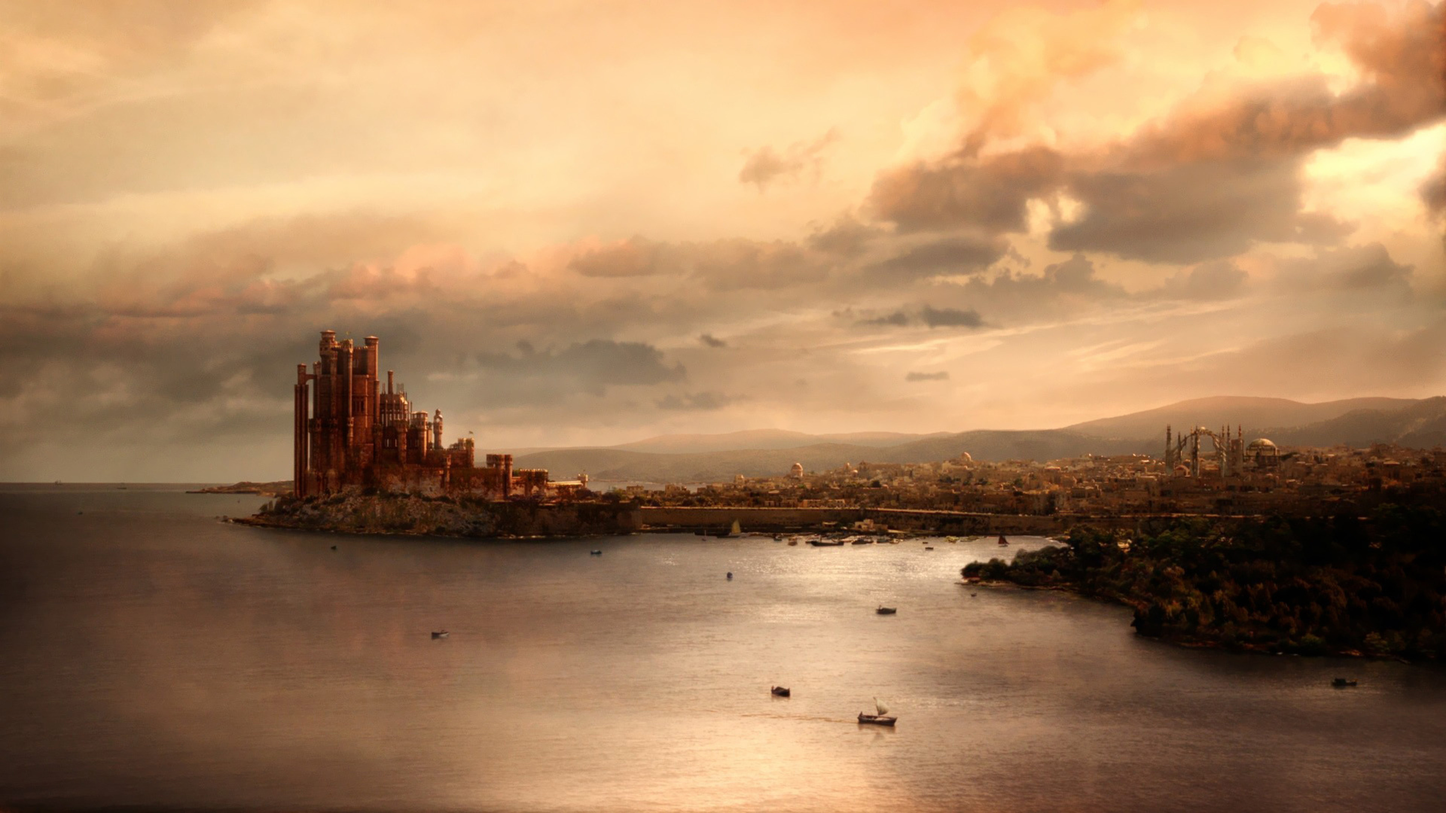
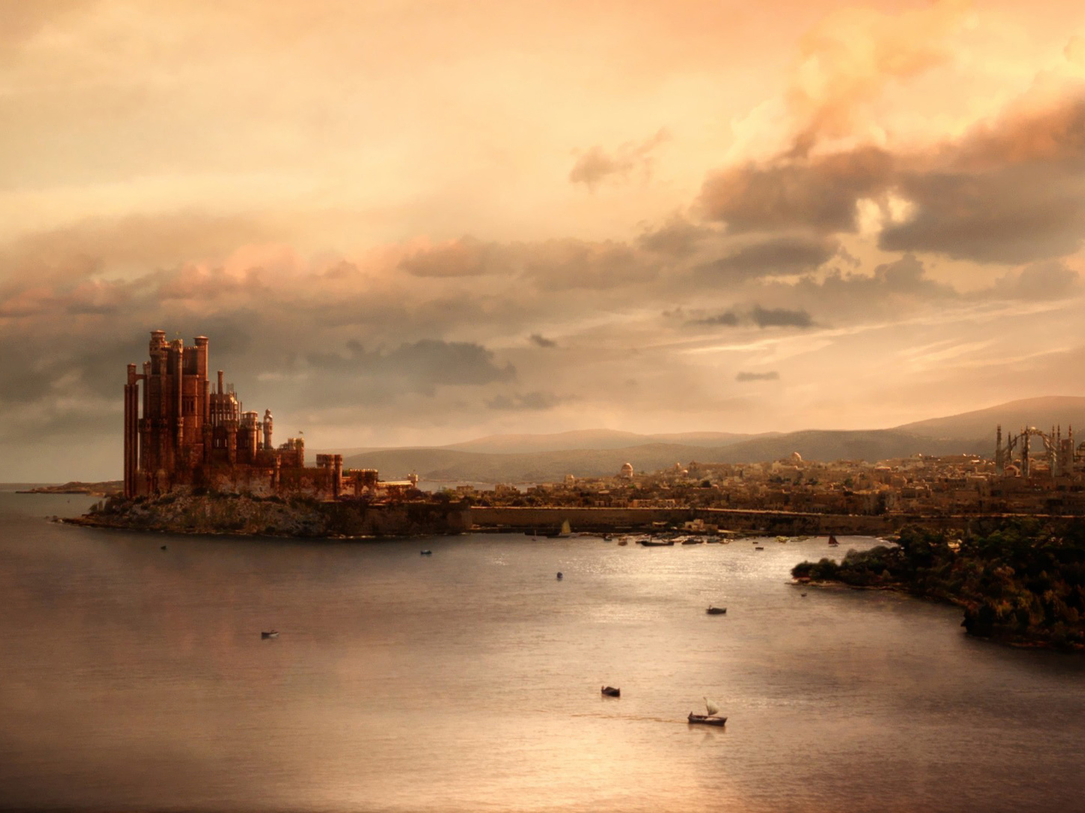
prefinal version with media queries

diff --git a/index.html b/index.html
@@ -22,7 +22,6 @@
         <div class="jumbotron py-3">
             <div class="row mx-md-n5">
                 <div class="col py-1 px-md-5" id="banner">
-                    <!-- Custom column padding -->
                     <div class="mx-auto">
                         <img src="assets/images/logo.png" id="logo">
                     </div>
@@ -30,15 +29,8 @@
                         <h5>"Train is Coming"</h5>
                     </div>
                 </div>
-                <!-- <div class="col py-3 px-md-5 border bg-light">Custom column padding</div> -->
             </div>
-
             <h5 id="title">Train Scheduler for Filming Locations</h5>
-            <!-- <div class="lead">
-                "Train is coming!" Hop aboard on the Game of Thrones trains to visit the GoT filming locations. You can play the role of a
-                train administrator and add/edit/delete train information. The information will automatically update
-                each minute and is synced across multiple devices and/or browsers.
-            </div> -->
         </div>
 
         <div class="card" id="current-train-container">
@@ -61,11 +53,9 @@
                         <!-- Dynamic train schedules are appended here-->
                     </tbody>
                 </table>
-
             </div>
         </div>
-        <br />
-
+    <br />
         <div class="card" id="add-train-container">
             <h6 class="card-header" id="add-train">Add Train</h6>
             <div class="card-body">
@@ -93,6 +83,7 @@
                                     placeholder="How often?">
                             </div>
                             <button type="submit" class="btn btn-primary" id="add-train-btn">Submit</button>
+                            <p></p><br><p></p>
                         </form>
                     </div>
                 <br>

diff --git a/assets/css/style.css b/assets/css/style.css
@@ -88,9 +88,9 @@ footer {
 }
 
 /* Medium devices (landscape tablet, 1080px) */
-@media only screen and (max-width: 1080px) {
+@media only screen and (max-width: 992px) {
     body{
-        background-image: url('../images/kapalua-bay-besthawaii0216alt.jpg');
+        background-image: url('../images/GoT-Kings-Landing-Wallpaper2.jpg');
         background-attachment: fixed;
         background-position: top;
         background-repeat: no-repeat;
@@ -98,19 +98,33 @@ footer {
     }
   } 
 
-/* Small devices (portrait phone, 520px) */
-@media only screen and (max-width: 520px) {
+/* Small devices (landscape phone, 700px) */
+@media only screen and (max-width: 700px) {
     body{
-        background-image: url('../images/kapalua-bay-besthawaii0216alt2.jpg');
+        background-image: url('../images/GoT-Kings-Landing-Wallpaper3.jpg');
         background-attachment: fixed;
         background-position: top;
         background-repeat: no-repeat;
         background-color: #f4b87c;
     }
-    .fullTitle{
+  } 
+  
+/* Small devices (portrait phone, 520px) */
+@media only screen and (max-width: 520px) {
+    body{
+        background-image: url('../images/GoT-Kings-Landing-Wallpaper4.jpeg');
+        background-attachment: fixed;
+        background-position: top;
+        background-repeat: no-repeat;
+        background-color: #f4b87c;
+    }
+    #add-train-container{
+        padding-bottom: 750px;
+    }
+    /* .fullTitle{
         font-size: 40px;
     }
     #instructions{
         font-size: 14px;
-    }
+    } */
   } 
